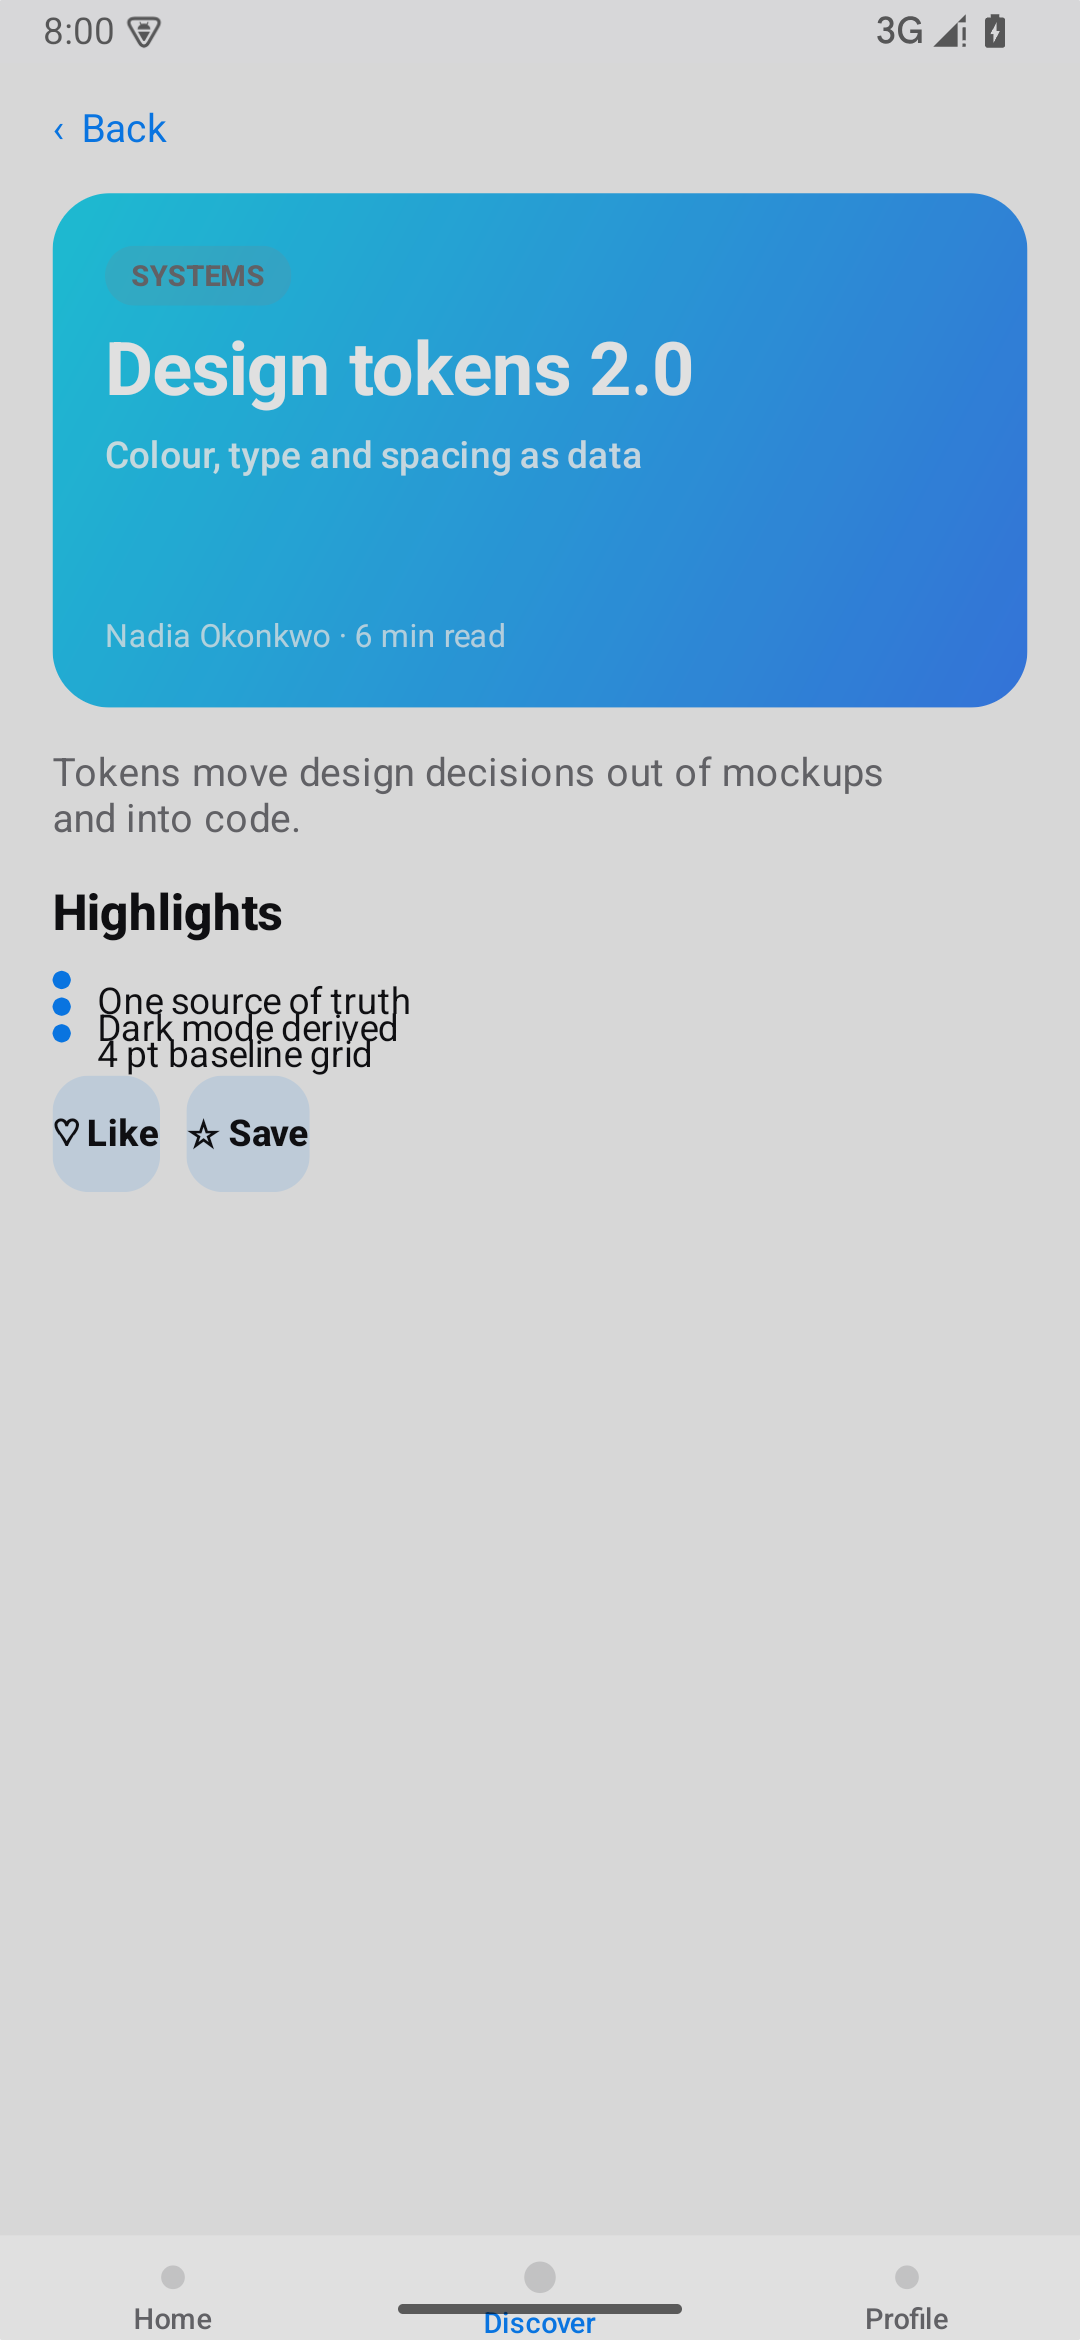
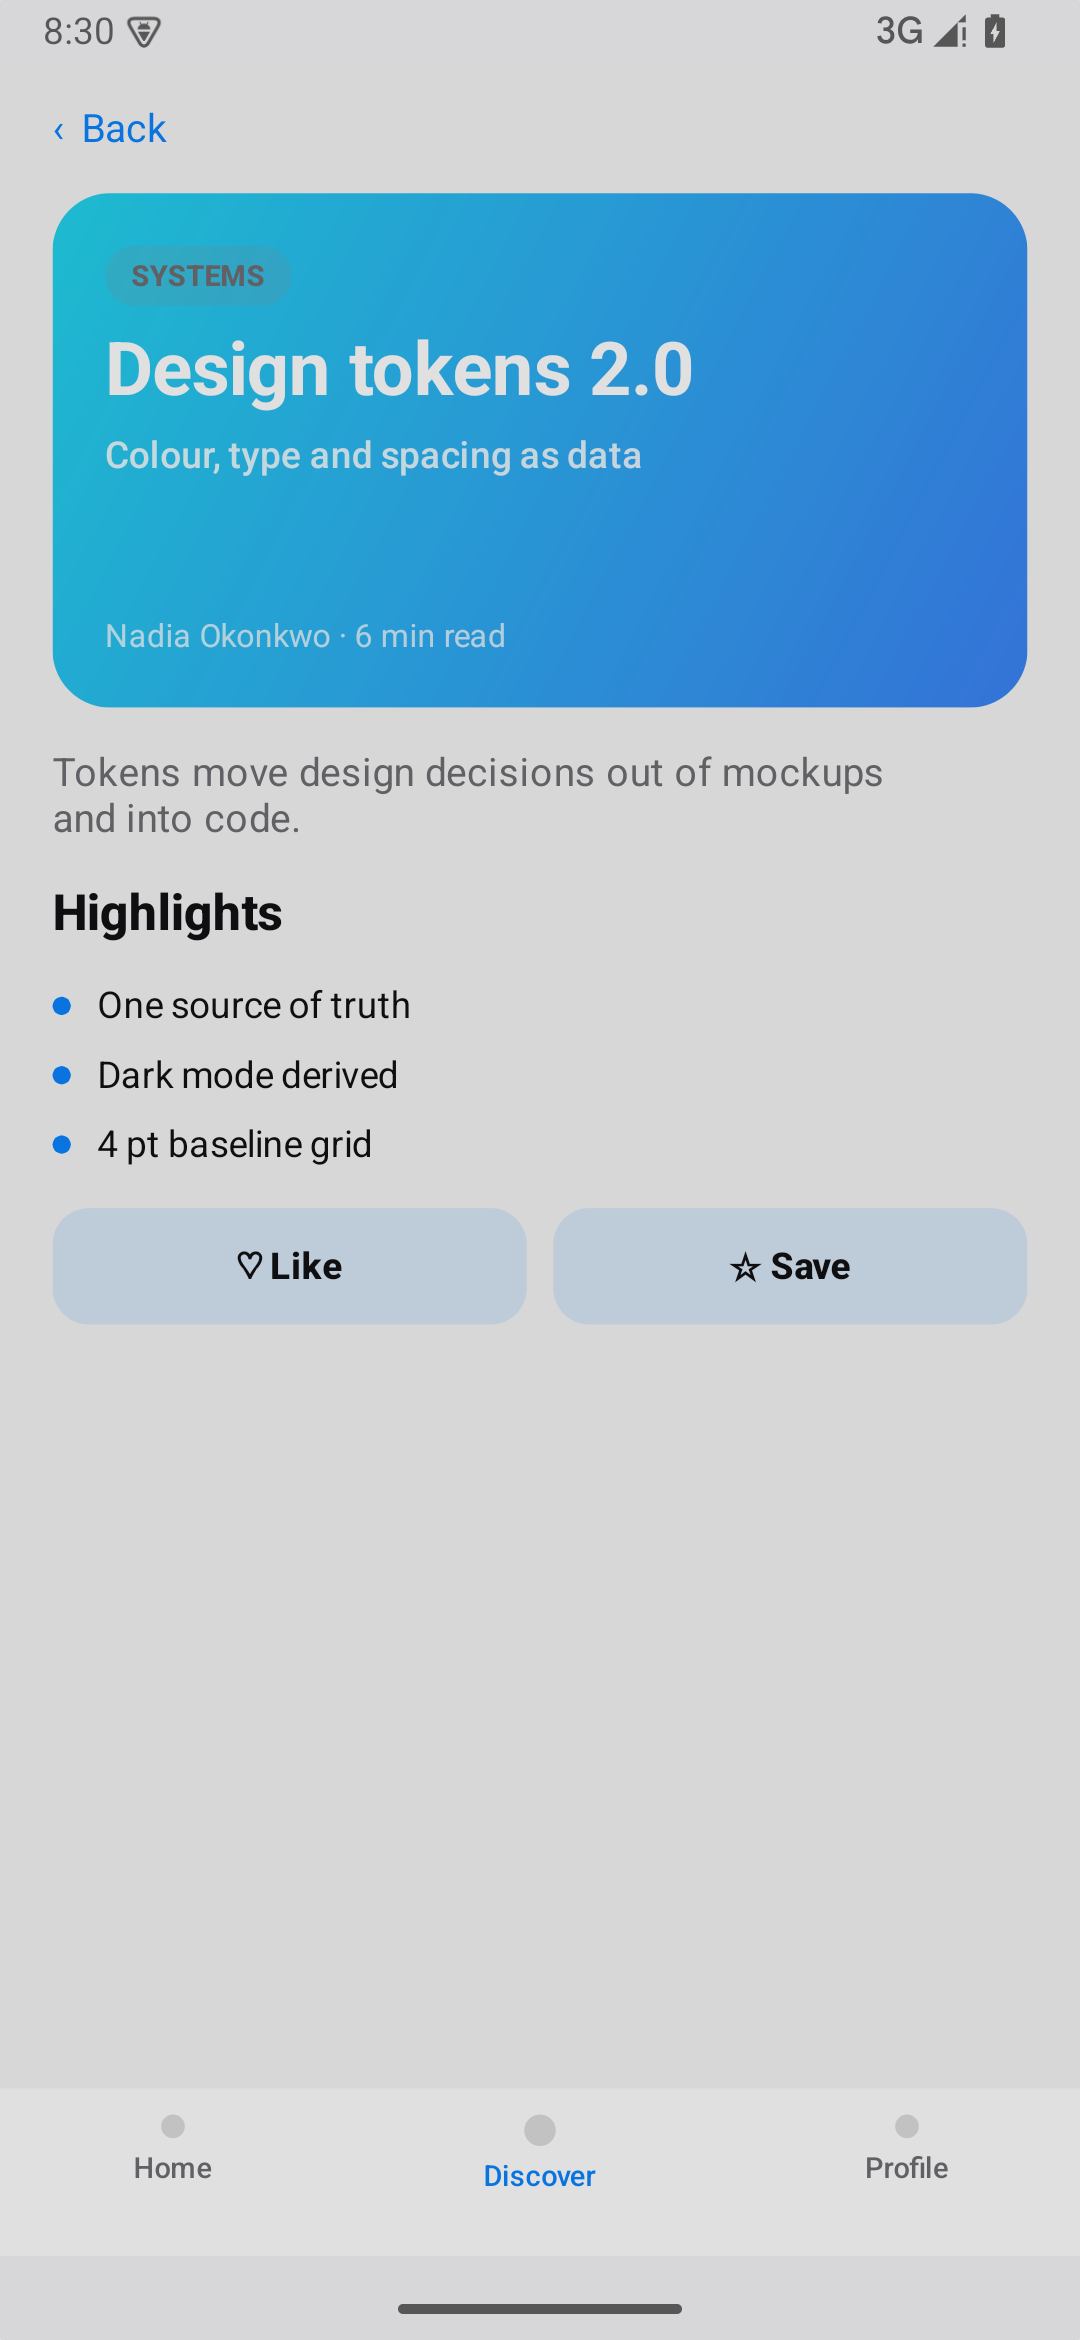
engine: frame alignment, infinite frames, and the last layout defects
- a fixed frame keeps its child's natural size and aligns it inside the box; an explicit .infinity
  maximum fills the slot it was given (avatars centre, tab items spread)
- position selectors in bodies.txt now apply setters before getters (a shared accessor symbol left
  the setter as a stub, so Binding reads worked and writes trapped)
- scripts/test.sh clears the ported build's shim modules so the host suite builds cleanly

38 tests green; Home/Discover/Profile/Detail verified on device.

diff --git a/Sources/SwiftUI/Engine/Node.swift b/Sources/SwiftUI/Engine/Node.swift
@@ -592,11 +592,20 @@ public final class LayoutNode {
             var height = childSize.height
             if let explicit = spec.maxWidth, spec.minWidth == explicit, explicit.isFinite { width = explicit }
             if let explicit = spec.maxHeight, spec.minHeight == explicit, explicit.isFinite { height = explicit }
+            // An explicitly infinite maximum fills the space it was given (that is what
+            // `.frame(maxWidth: .infinity)` means), while its content stays centred inside.
+            if spec.maxWidth == .infinity { width = rect.width }
+            if spec.maxHeight == .infinity { height = rect.height }
+            // The frame owns the box; the child keeps its natural size inside it and is positioned
+            // by the frame's alignment. Placing the child at the frame's full size put an avatar's
+            // initial in the top-left corner instead of its centre.
+            let contentWidth = min(childSize.width, width)
+            let contentHeight = min(childSize.height, height)
             let origin = CGPoint(
-                x: rect.minX + (rect.width - width) * spec.horizontalAlignment,
-                y: rect.minY + (rect.height - height) * spec.verticalAlignment
+                x: rect.minX + (width - contentWidth) * spec.horizontalAlignment,
+                y: rect.minY + (height - contentHeight) * spec.verticalAlignment
             )
-            child.place(in: CGRect(origin: origin, size: CGSize(width: width, height: height)))
+            child.place(in: CGRect(origin: origin, size: CGSize(width: contentWidth, height: contentHeight)))
         case .background, .overlay:
             children.first?.place(in: rect)
             children.last?.place(in: rect)

diff --git a/Tests/SwiftUITests/LayoutTests.swift b/Tests/SwiftUITests/LayoutTests.swift
@@ -136,11 +136,29 @@ final class LayoutTests: XCTestCase {
     }
 
     func testFixedFrameOverridesChildSizeAndCentersIt() {
+        // The frame owns the box; the child keeps its natural size and is centred inside it.
+        // (This assertion used to require the child to fill the frame, which put an avatar's
+        // initial in the corner instead of its centre.)
         let node = LayoutNode.frame(FrameSpec.width(100), .text("aa", style: body17))
         let size = node.measure(.unspecified)
         XCTAssertEqual(size.width, 100, accuracy: 0.001)
         node.place(in: CGRect(origin: .zero, size: size))
-        XCTAssertEqual(node.children[0].frame.width, 100, accuracy: 0.001)
+        XCTAssertEqual(node.children[0].frame.width, 20, accuracy: 0.001)
+        XCTAssertEqual(node.children[0].frame.minX, 40, accuracy: 0.001)
+    }
+
+    func testFixedFrameCentresChildOnBothAxes() {
+        // The avatar case: `.frame(width: 40, height: 40)` around a one-line text — the frame is
+        // 40x40 and the glyphs are centred inside it.
+        let spec = FrameSpec(minWidth: 40, idealWidth: 40, maxWidth: 40,
+                             minHeight: 40, idealHeight: 40, maxHeight: 40)
+        let node = LayoutNode.frame(spec, .text("L", style: body17))
+        let size = node.measure(.unspecified)
+        XCTAssertEqual(size, CGSize(width: 40, height: 40))
+        node.place(in: CGRect(origin: .zero, size: size))
+        let child = node.children[0].frame
+        XCTAssertEqual(child.height, 17, accuracy: 0.001)
+        XCTAssertEqual(child.minY, (40 - 17) / 2, accuracy: 0.001)
     }
 
     func testFrameMaxWidthClampsToProposal() {

diff --git a/docs/PORT-STATUS.md b/docs/PORT-STATUS.md
@@ -3,7 +3,24 @@
 Living document. Updated as the port converges. Numbers are measured, not estimated.
 
 
-### Open issue: text rows overlap on device
+### Resolved: the layout defects found by reading screenshots
+
+- **Frame placement.** A fixed frame placed its child at the frame's *full size*, so an avatar's
+  initial sat in the corner. It now keeps the child's natural size and aligns it inside the box,
+  while a `.infinity` maximum fills the slot it was given (that is what tab items need).
+- **Flexibility propagation.** Decorating wrappers (`clip`, `shadow`, `opacity`, `offset`) now
+  follow their content, and `background`/`overlay` follow their *content* rather than their
+  backdrop — a flexible shape behind a pill was stretching the pill.
+- **`.lineLimit`** is honoured; ignoring it made single-line labels wrap and overflow.
+- **Safe area.** The root view is clamped to the inset box and the host's inset union includes the
+  gesture area, so the tab bar clears the system gesture pill.
+- **Stack cross-axis sizing.** A `Spacer()` made its row flexible in *both* axes, collapsing
+  highlight rows to zero height; flexible children now keep their cross-axis size.
+
+`HighlightRowTests`, `TabBarLayoutTests`, `FrameFlexibilityTests` and the frame-placement
+assertions in `LayoutTests` pin all of the above.
+
+### Historical: text rows overlapping on device
 
 Host geometry for a `HStack { dot; Text }.padding(.vertical, 2)` row inside a `VStack(spacing: 6)`
 is exact (pinned by `HighlightRowTests`), yet on the emulator the Detail screen's highlight rows
